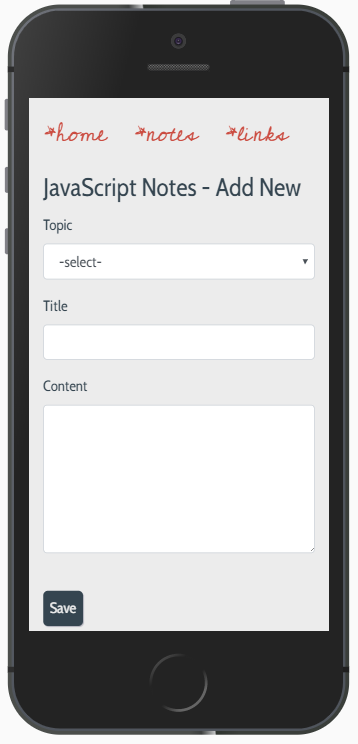
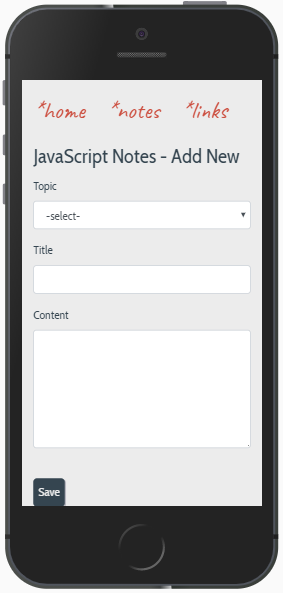
Update device images.

diff --git a/app.py b/app.py
@@ -32,7 +32,7 @@ def is_safe_url(next):
     if next.startswith("/notes/"):
         return True
     else:
-        return False    
+        return False
 
 
 # USER CLASS FOR LOGIN MANAGER
@@ -48,8 +48,8 @@ class User(UserMixin):
         user = mongo.db.users.find_one({"email": email})
         if user == None:
             return None
-        else:    
-            return User(user['user_name'], user['password'], 
+        else:
+            return User(user['user_name'], user['password'],
                 user['email'], user['_id'])
 
     @staticmethod
@@ -167,7 +167,7 @@ def login():
     return render_template("login.html", form=form, sample1=session["sample1"], sample2=session["sample2"], sample3=session["sample3"], sample4=session["sample4"], quote=session["quote"])
 
 
-# VIEW LINKS - 
+# VIEW LINKS
 @app.route("/links/<language>", methods=["GET", "POST"])
 def links(language): 
     '''
